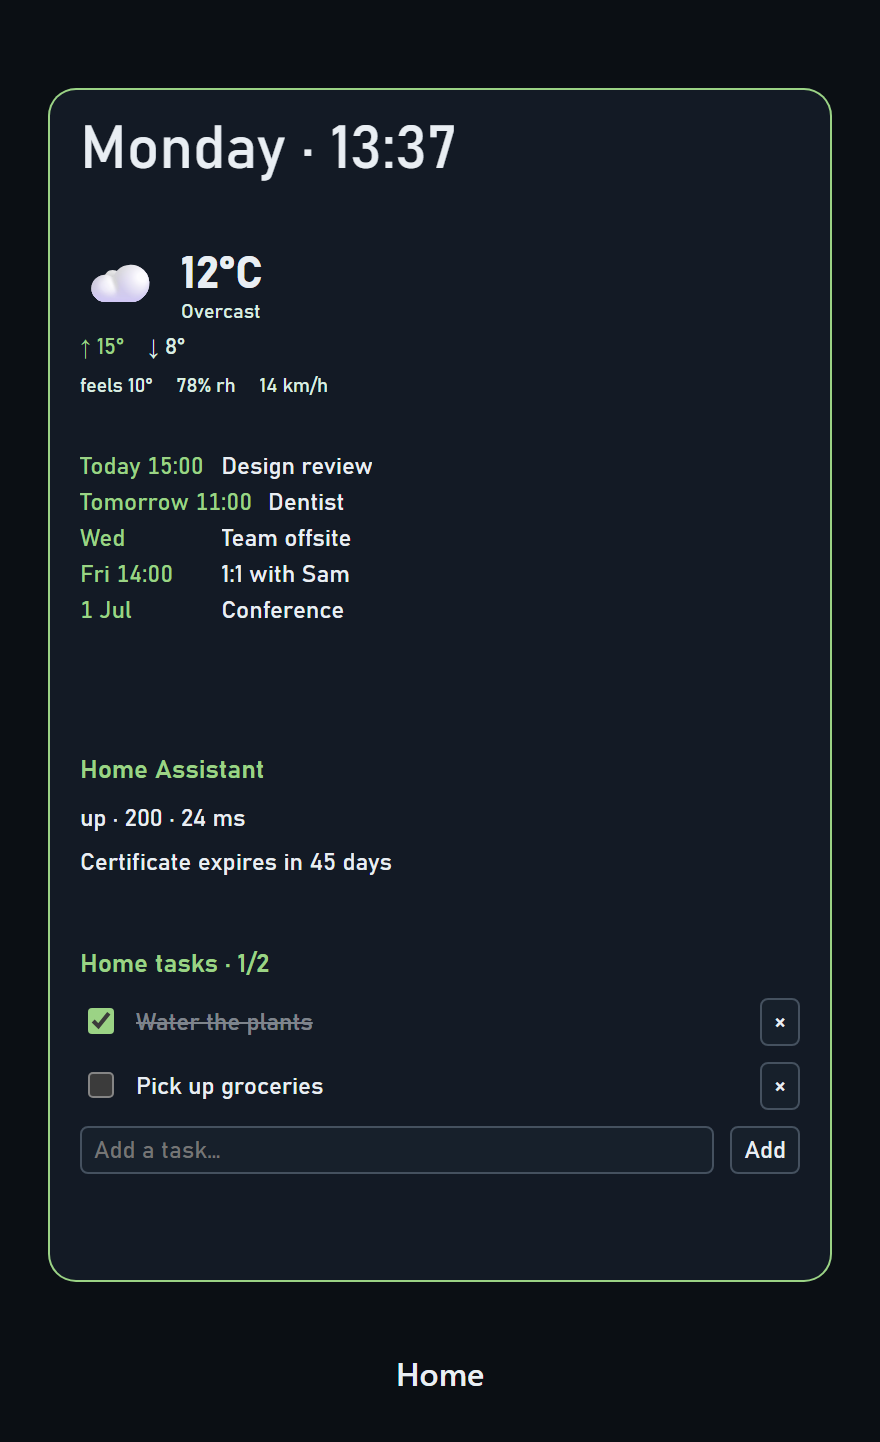
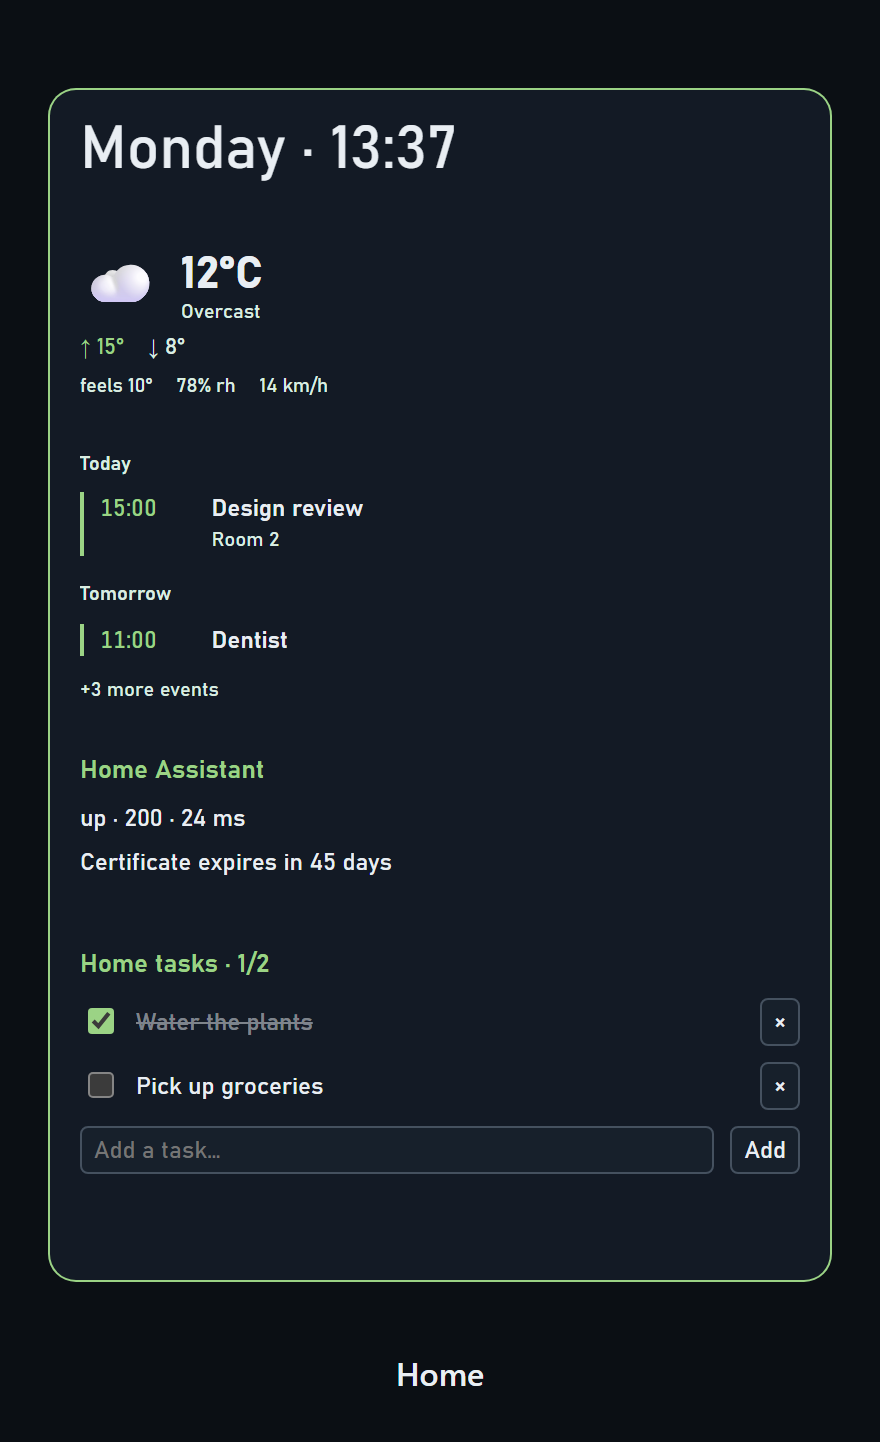
fix: align agenda event rows and prevent preset clipping

Changed region(s): [[0.092, 0.3121, 0.4295, 0.4993]]

diff --git a/client/e2e/agenda.spec.ts b/client/e2e/agenda.spec.ts
@@ -1,6 +1,33 @@
 import { test, expect } from '@playwright/test';
 import { watchConsole } from './helpers';
 
+test('agenda times and names align on the Dentist row and rows with locations', async ({
+	page
+}) => {
+	await page.goto('/gallery/');
+	for (const shot of ['widget-agenda', 'preset-work', 'preset-home']) {
+		const agenda = page.locator(`[data-shot="${shot}"] .agenda`);
+		await expect(agenda.getByText('Dentist', { exact: true })).toBeAttached();
+		const rows = await agenda.locator('.ag-event').evaluateAll((nodes) =>
+			nodes.map((node) => {
+				const time = node.querySelector('.ag-when')!.getBoundingClientRect();
+				const name = node.querySelector('.ag-summary')!.getBoundingClientRect();
+				return { timeY: time.y, nameY: name.y, nameX: name.x };
+			})
+		);
+		for (const row of rows) {
+			expect(Math.abs(row.timeY - row.nameY)).toBeLessThan(0.5);
+			expect(row.nameX).toBeCloseTo(rows[0].nameX, 1);
+		}
+		if (shot.startsWith('preset-')) {
+			expect(rows).toHaveLength(2);
+			expect(
+				await agenda.locator('.ag-list').evaluate((node) => node.scrollHeight <= node.clientHeight)
+			).toBe(true);
+		}
+	}
+});
+
 test('agenda remains readable in a narrow widget and scrolls to later events', async ({ page }) => {
 	const log = watchConsole(page);
 	// The unrelated iframe demo is sandboxed; keep Vite's injected scripts out of it.

diff --git a/client/src/lib/widgets/meters/Agenda.css b/client/src/lib/widgets/meters/Agenda.css
@@ -52,30 +52,36 @@
 	margin-top: 0;
 }
 .ag-event {
-	display: flex;
-	align-items: baseline;
-	gap: 10px;
+	display: grid;
+	grid-template-columns: var(--ag-when-w, 3.8em) minmax(0, 1fr);
+	align-items: start;
+	column-gap: 10px;
+	row-gap: 2px;
 	border-left: 2px solid var(--ag-accent, var(--np-accent, rgb(119, 196, 211)));
 	padding-left: 8px;
 }
 .ag-when {
-	flex: 0 0 var(--ag-when-w, 3.8em);
-	font-size: 0.9em;
+	grid-column: 1;
+	grid-row: 1;
+	white-space: nowrap;
 	font-variant-numeric: tabular-nums;
 	color: var(--ag-accent, var(--np-accent, rgb(119, 196, 211)));
 }
 .ag-details {
-	flex: 1;
-	min-width: 0;
+	display: contents;
 }
 .ag-summary {
+	grid-column: 2;
+	grid-row: 1;
+	min-width: 0;
 	font-weight: 500;
 	white-space: nowrap;
 	overflow: hidden;
 	text-overflow: ellipsis;
 }
 .ag-location {
-	margin-top: 2px;
+	grid-column: 2;
+	min-width: 0;
 	font-size: 0.84em;
 	color: var(--np-label, rgba(255, 255, 255, 0.55));
 	white-space: nowrap;

diff --git a/client/src/lib/core/dashboardSacks.ts b/client/src/lib/core/dashboardSacks.ts
@@ -49,7 +49,7 @@ function dashboard(
 export const DASHBOARD_SACKS: Record<string, Sack> = {
 	'Built-in: Work': dashboard('Work', '#77c4d3', [
 		{ type: 'clock', height: 42, config: { format: 'ddd D MMM · HH:mm' } },
-		{ type: 'agenda', height: 160 },
+		{ type: 'agenda', height: 160, config: { maxRows: 2 } },
 		{ type: 'checklist', height: 180 },
 		{ type: 'timer', height: 70 },
 		{ type: 'alerts', height: 90 }
@@ -63,7 +63,7 @@ export const DASHBOARD_SACKS: Record<string, Sack> = {
 	'Built-in: Home': dashboard('Home', '#9bd385', [
 		{ type: 'clock', height: 42, config: { format: 'dddd · HH:mm' } },
 		{ type: 'weather', height: 100 },
-		{ type: 'agenda', height: 140 },
+		{ type: 'agenda', height: 140, config: { maxRows: 2 } },
 		{ type: 'servicehealth', height: 85, config: { label: 'Home Assistant', url: '' } },
 		{ type: 'checklist', height: 150, config: { label: 'Home tasks' } }
 	]),
